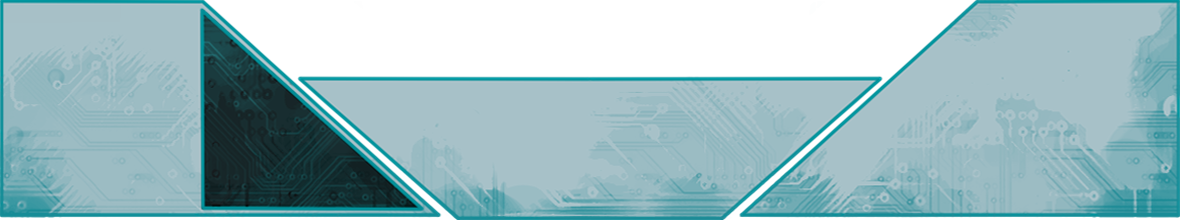
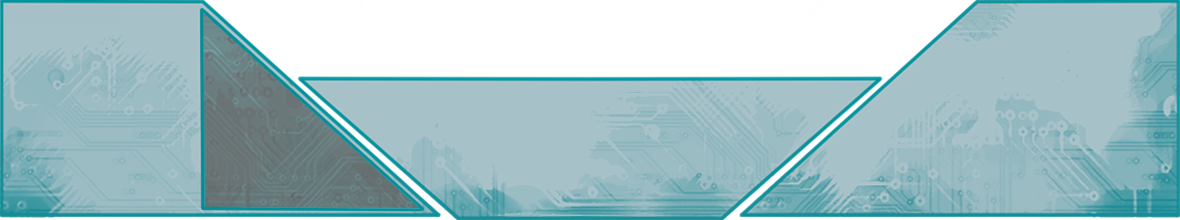
refactor, changes minimap

Changed region(s): [[0.1525, 0.0545, 0.3661, 0.9818]]

diff --git a/core/drawing/drawing.py b/core/drawing/drawing.py
@@ -1,3 +1,5 @@
+import math
+
 import pygame
 from core.utils.utils import get_sky_offset
 from entities.main_player.main_player import MainPlayer
@@ -8,18 +10,22 @@ from settings import *
 class Drawing:
     def __init__(self, screen):
         self.screen = screen
-        self.screen_gameinfo = pygame.Surface((440, 217), pygame.SRCALPHA)
-        self.screen_minimap = pygame.Surface((190, 206), pygame.SRCALPHA)
+        self.screen_gameinfo = pygame.Surface(GAMEINFO_SIZE, pygame.SRCALPHA)
+        self.screen_minimap = pygame.Surface(MINIMAP_SIZE, pygame.SRCALPHA)
+        self.minimap_walls_screen = pygame.Surface(MINIMAP_SIZE, pygame.SRCALPHA)
         self.font_fps = pygame.font.Font(FONT_PATH+'Fifaks10Dev1.ttf', 34)
         self.textures = dict()
-        self.interface_texture = pygame.image.load(INTERFACE_TEXTURE).convert_alpha()
-        self.button_texture = pygame.image.load(BUTTON_TEXTURE).convert_alpha()
-        self.background_texture = pygame.image.load(BACKGROUND_TEXTURE).convert_alpha()
+        self.textures_interface = dict()
         self.load_textures()
+        self.load_textures_interface()
 
     def load_textures(self) -> None:
         for key in TEXTURES:
             self.textures[key] = pygame.image.load(TEXTURES[key]).convert()
+
+    def load_textures_interface(self) -> None:
+        for key in TEXTURES_INTERFACE:
+            self.textures_interface[key] = pygame.image.load(TEXTURES_INTERFACE[key]).convert_alpha()
 
     def draw_floor_sky(self, angle: float) -> None:
         sky_offset = get_sky_offset(angle)
@@ -34,26 +40,36 @@ class Drawing:
 
     def draw_interface(self, player: MainPlayer, mini_map, fps='none') -> None:
         self.screen_gameinfo.fill(EMPTY_COLOR)
-        self.screen.blit(self.interface_texture, (MARGIN, HEIGHT-220-MARGIN))
+        self.screen.blit(self.textures_interface['interface'], (MARGIN, HEIGHT-220-MARGIN))
         fps_text = self.font_fps.render(f'FPS: {fps}', 0, WHITE)
         test1_text = self.font_fps.render('TEST TEXT INFO', 0, WHITE)
         test2_text = self.font_fps.render('ZED DUCK', 0, WHITE)
         self.screen_gameinfo.blit(fps_text, (240, 20))
         self.screen_gameinfo.blit(test2_text, (200, 60))
         self.screen_gameinfo.blit(test1_text, (160, 100))
-        self.screen.blit(self.screen_gameinfo, (WIDTH-MARGIN-440, HEIGHT-220-MARGIN))
+        self.screen.blit(self.screen_gameinfo, GAMEINFO_POS)
         self.draw_minimap(player, mini_map)
 
     def draw_minimap(self, player: MainPlayer, minimap) -> None:
-        self.screen_minimap.fill(BLACK)
-        camera_rect = pygame.Rect(player.x//5-110, player.y//5-110, 250, 250)
-        diffx = 95 - player.x//5
-        diffy = 102 - player.y//5
+        self.screen_minimap.blit(self.textures_interface['minimap_background'], (0, 0))
+        self.minimap_walls_screen.fill(EMPTY_COLOR)
+
+        dx, dy = player.x // MINIMAP_SCALE, player.y // MINIMAP_SCALE
+
+        player_point = pygame.transform.rotate(self.textures_interface['player_point'], 360 - math.degrees(player.angle))
+        coord_player_point = player_point.get_rect().width // 2
+        self.screen_minimap.blit(player_point,
+                                 (HALF_MINIMAP_WIDTH - coord_player_point, HALF_MINIMAP_HEIGHT - coord_player_point))
+
+        camera_rect = pygame.Rect(dx - HALF_MINIMAP_WIDTH, dy - HALF_MINIMAP_HEIGHT,
+                                  MINIMAP_WIDTH, MINIMAP_HEIGHT)
+        diffx, diffy = HALF_MINIMAP_WIDTH - dx, HALF_MINIMAP_HEIGHT - dy
+
         for wall in minimap:
             wall_rect = pygame.Rect(wall[0], wall[1], MINIMAP_TILE, MINIMAP_TILE)
             if camera_rect.colliderect(wall_rect):
-                pygame.draw.rect(self.screen_minimap, WHITE, pygame.Rect(wall_rect.x + diffx, wall_rect.y + diffy, MINIMAP_TILE, MINIMAP_TILE))
-        # pygame.draw.circle(self.screen_minimap, RED, (95, 102), 5)
-        # pygame.draw.line(self.screen_minimap, RED, (95, 102), (95 + 12 * math.cos(player.angle),
-        #                                                        102 + 12 * math.sin(player.angle)), 2)
-        self.screen.blit(self.screen_minimap, (MARGIN+6, HEIGHT-220-MARGIN+6))
+                pygame.draw.rect(self.minimap_walls_screen, MAP_WALLS_COLOR,
+                                 pygame.Rect(wall_rect.x + diffx, wall_rect.y + diffy, MINIMAP_TILE, MINIMAP_TILE))
+
+        self.screen_minimap.blit(self.minimap_walls_screen, (0, 0))
+        self.screen.blit(self.screen_minimap, MINIMAP_POS)

diff --git a/core/ray_casting_service/ray_casting.py b/core/ray_casting_service/ray_casting.py
@@ -27,7 +27,7 @@ def ray_casting(player_pos, player_angle, world_map):
         cos_a = cos_a if cos_a else 0.000001
 
         x, dx = (xm + TILE, 1) if cos_a >= 0 else (xm, -1)
-        for i in prange(0, WORLD_WIDTH_TILE, TILE):
+        for _ in prange(0, WORLD_WIDTH_TILE, TILE):
             depth_v = (x - ox) / cos_a
             yv = oy + depth_v * sin_a
             tile_v = mapping(x + dx, yv)
@@ -37,7 +37,7 @@ def ray_casting(player_pos, player_angle, world_map):
             x += dx * TILE
 
         y, dy = (ym + TILE, 1) if sin_a >= 0 else (ym, -1)
-        for i in prange(0, WORLD_HEIGHT_TILE, TILE):
+        for _ in prange(0, WORLD_HEIGHT_TILE, TILE):
             depth_h = (y - oy) / sin_a
             xh = ox + depth_h * cos_a
             tile_h = mapping(xh, y + dy)
@@ -58,23 +58,20 @@ def ray_casting(player_pos, player_angle, world_map):
 
 
 def ray_casting_walls_textured(player: MainPlayer, textures: dict, world_map: List[list]) -> List[tuple]:
-    walls = ray_casting(player.pos, player.angle, world_map)
     walls_textured = list()
-    for casted_values in walls:
+    for casted_values in ray_casting(player.pos, player.angle, world_map):
         ray, depth, offset, proj_height, texture = casted_values
 
         if proj_height > HEIGHT:
-            wall_pos = (ray * SCALE, 0)
-            scale_wall = (SCALE, HEIGHT)
+            wall_pos, scale_wall = (ray * SCALE, 0), (SCALE, HEIGHT)
         else:
-            wall_pos = (ray * SCALE, HALF_HEIGHT - proj_height // 2)
-            scale_wall = (SCALE, proj_height)
+            wall_pos, scale_wall = (ray * SCALE, HALF_HEIGHT - proj_height // 2), (SCALE, proj_height)
 
         wall_column = pygame.transform.scale(textures[texture if texture in textures.keys() else 0]
                                              .subsurface(*get_left_top_coord_texture(offset, proj_height)), scale_wall)
-        if proj_height < HEIGHT * 1.4:
+        if proj_height < HEIGHT * 1.6:
             shadow = pygame.Surface((SCALE, proj_height), pygame.SRCALPHA)
-            shadow.fill((0, 0, 0, min(depth / TILE * 10, 200)))
+            shadow.fill((0, 0, 0, min(depth / TILE * 10, 255)))
             wall_column.blit(shadow, (0, 0))
         walls_textured.append((depth, wall_column, wall_pos))
     return walls_textured

diff --git a/settings.py b/settings.py
@@ -50,22 +50,28 @@ TEXTURES = {
     5: IMAGES_PATH + '\\walls\\wall5.png',
     'S': IMAGES_PATH + '\\sky\\skyf.png',
 }
-INTERFACE_TEXTURE = IMAGES_PATH + '\\interface\\interface.png'
-BUTTON_TEXTURE = IMAGES_PATH + '\\interface\\button.png'
-BACKGROUND_TEXTURE = IMAGES_PATH + '\\interface\\background.png'
+
+TEXTURES_INTERFACE = {
+    'interface': IMAGES_PATH + '\\interface\\interface.png',
+    'button': IMAGES_PATH + '\\interface\\button.png',
+    'background': IMAGES_PATH + '\\interface\\background.png',
+    'minimap_background': IMAGES_PATH + '\\interface\\minimap.png',
+    'player_point': IMAGES_PATH + '\\interface\\player_point.png'
+}
 
 # drawing
 MARGIN = 10
-MINIMAP_SIZE = MINIMAP_WIDTH, MINIMAP_HEIGHT = 300, 200
-GAMEINFO_SIZE = GAMEINFO_WIDTH, GAMEINFO_HEIGHT = 300, 200
+MINIMAP_SIZE = MINIMAP_WIDTH, MINIMAP_HEIGHT = 190, 206
+HALF_MINIMAP_WIDTH, HALF_MINIMAP_HEIGHT = MINIMAP_WIDTH//2, MINIMAP_HEIGHT//2
+GAMEINFO_SIZE = GAMEINFO_WIDTH, GAMEINFO_HEIGHT = 440, 217
 MINIMAP_TILE = 20
 MINIMAP_SCALE = TILE // MINIMAP_TILE
-MINIMAP_POS = (MARGIN, HEIGHT-MINIMAP_HEIGHT-MARGIN)
-GAMEINFO_POS = (WIDTH-GAMEINFO_WIDTH-MARGIN, HEIGHT-GAMEINFO_HEIGHT-MARGIN)
+MINIMAP_POS = (MARGIN+6, HEIGHT-220-MARGIN+6)
+GAMEINFO_POS = (WIDTH-MARGIN-440, HEIGHT-220-MARGIN)
 FPS_POS = (MARGIN, GAMEINFO_HEIGHT-26)
 
 
-MAP_WALLS_COLOR = (106, 109, 119)
+MAP_WALLS_COLOR = (71, 231, 255, 80)
 INTERFACE_COLOR = (24, 27, 33)
 EMPTY_COLOR = (0, 0, 0, 0)
 BLACK = (0, 0, 0)

diff --git a/main.py b/main.py
@@ -3,7 +3,6 @@ import pygame
 from components.menu_pause.menu_pause import MenuPause
 from components.menu_start.menu_start import MenuStart
 from core.status_game import STATUS_GAME
-from core.utils.utils import normalize_angle
 from settings import *
 from core.entity_service.entity_service import EntityService
 from core.map_service.map_service import MapService
@@ -23,8 +22,10 @@ class RayCastingGame:
         pygame.event.set_grab(1)
 
         self.game_status = STATUS_GAME.MENU_START
-        self.start_menu = MenuStart(self.drawing.button_texture, self.drawing.background_texture)
-        self.start_pause = MenuPause(self.drawing.button_texture, self.drawing.background_texture)
+        self.start_menu = MenuStart(self.drawing.textures_interface['button'],
+                                    self.drawing.textures_interface['background'])
+        self.start_pause = MenuPause(self.drawing.textures_interface['button'],
+                                     self.drawing.textures_interface['background'])
 
     def run(self):
         while True:

diff --git a/core/utils/utils.py b/core/utils/utils.py
@@ -17,7 +17,7 @@ def get_sprite_angles(angle):
     result = list()
     for i in range(8):
         theta = normalize_angle(angle + 45 * i)
-        result.append(list(map(normalize_angle, list(range(theta-22, theta+23)))))
+        result.append(list(map(normalize_angle, list(range(theta - 22, theta + 23)))))
     return result
 
 

diff --git a/components/menu_pause/menu_pause.py b/components/menu_pause/menu_pause.py
@@ -20,6 +20,5 @@ class MenuPause:
     def get_status(self) -> bool | STATUS_GAME:
         for btn in self.buttons:
             if btn.get_status():
-                print(self.buttons[btn])
                 return self.buttons[btn]
         return False

diff --git a/components/menu_start/menu_start.py b/components/menu_start/menu_start.py
@@ -19,6 +19,5 @@ class MenuStart:
     def get_status(self) -> bool | STATUS_GAME:
         for btn in self.buttons:
             if btn.get_status():
-                print(self.buttons[btn])
                 return self.buttons[btn]
         return False
